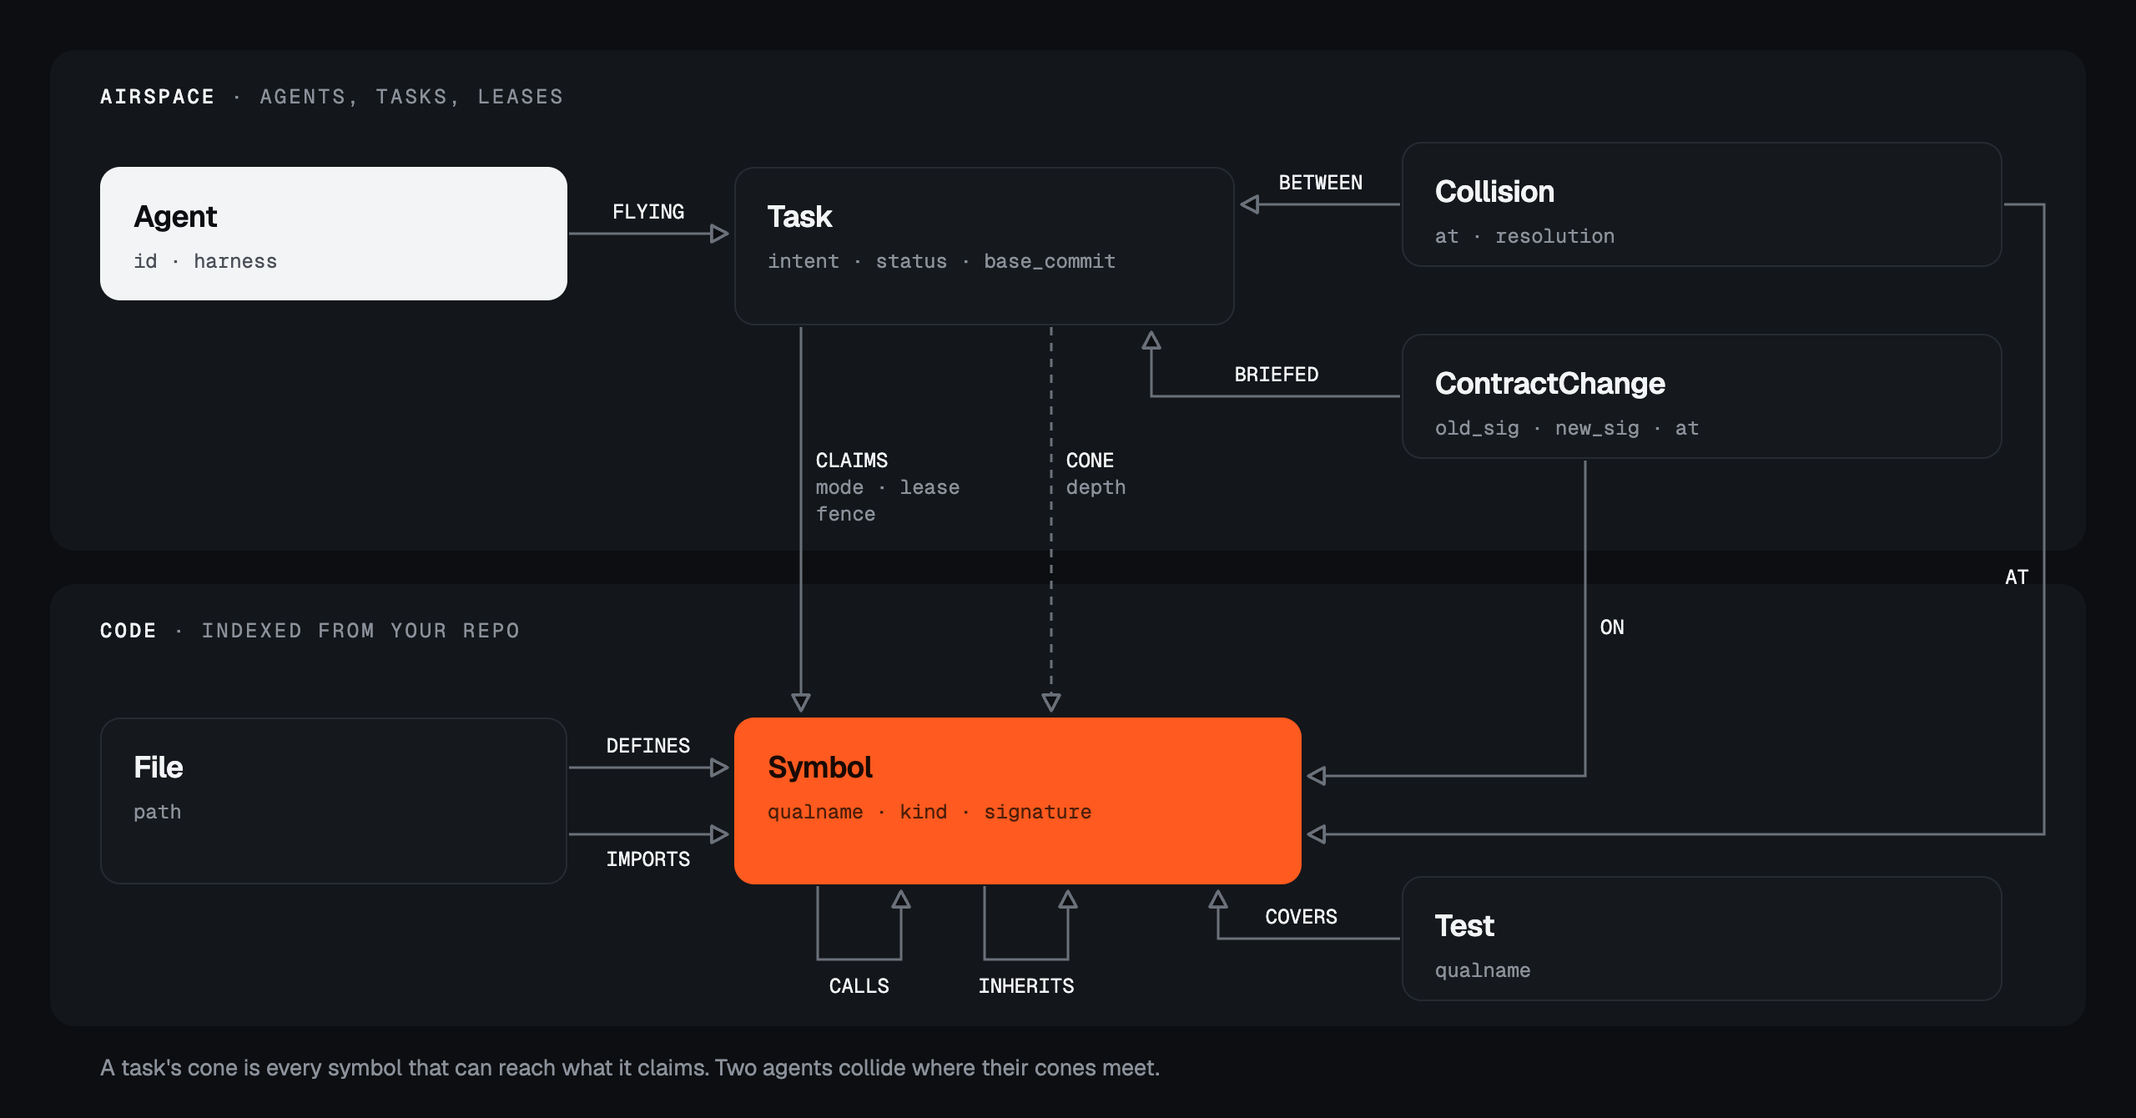
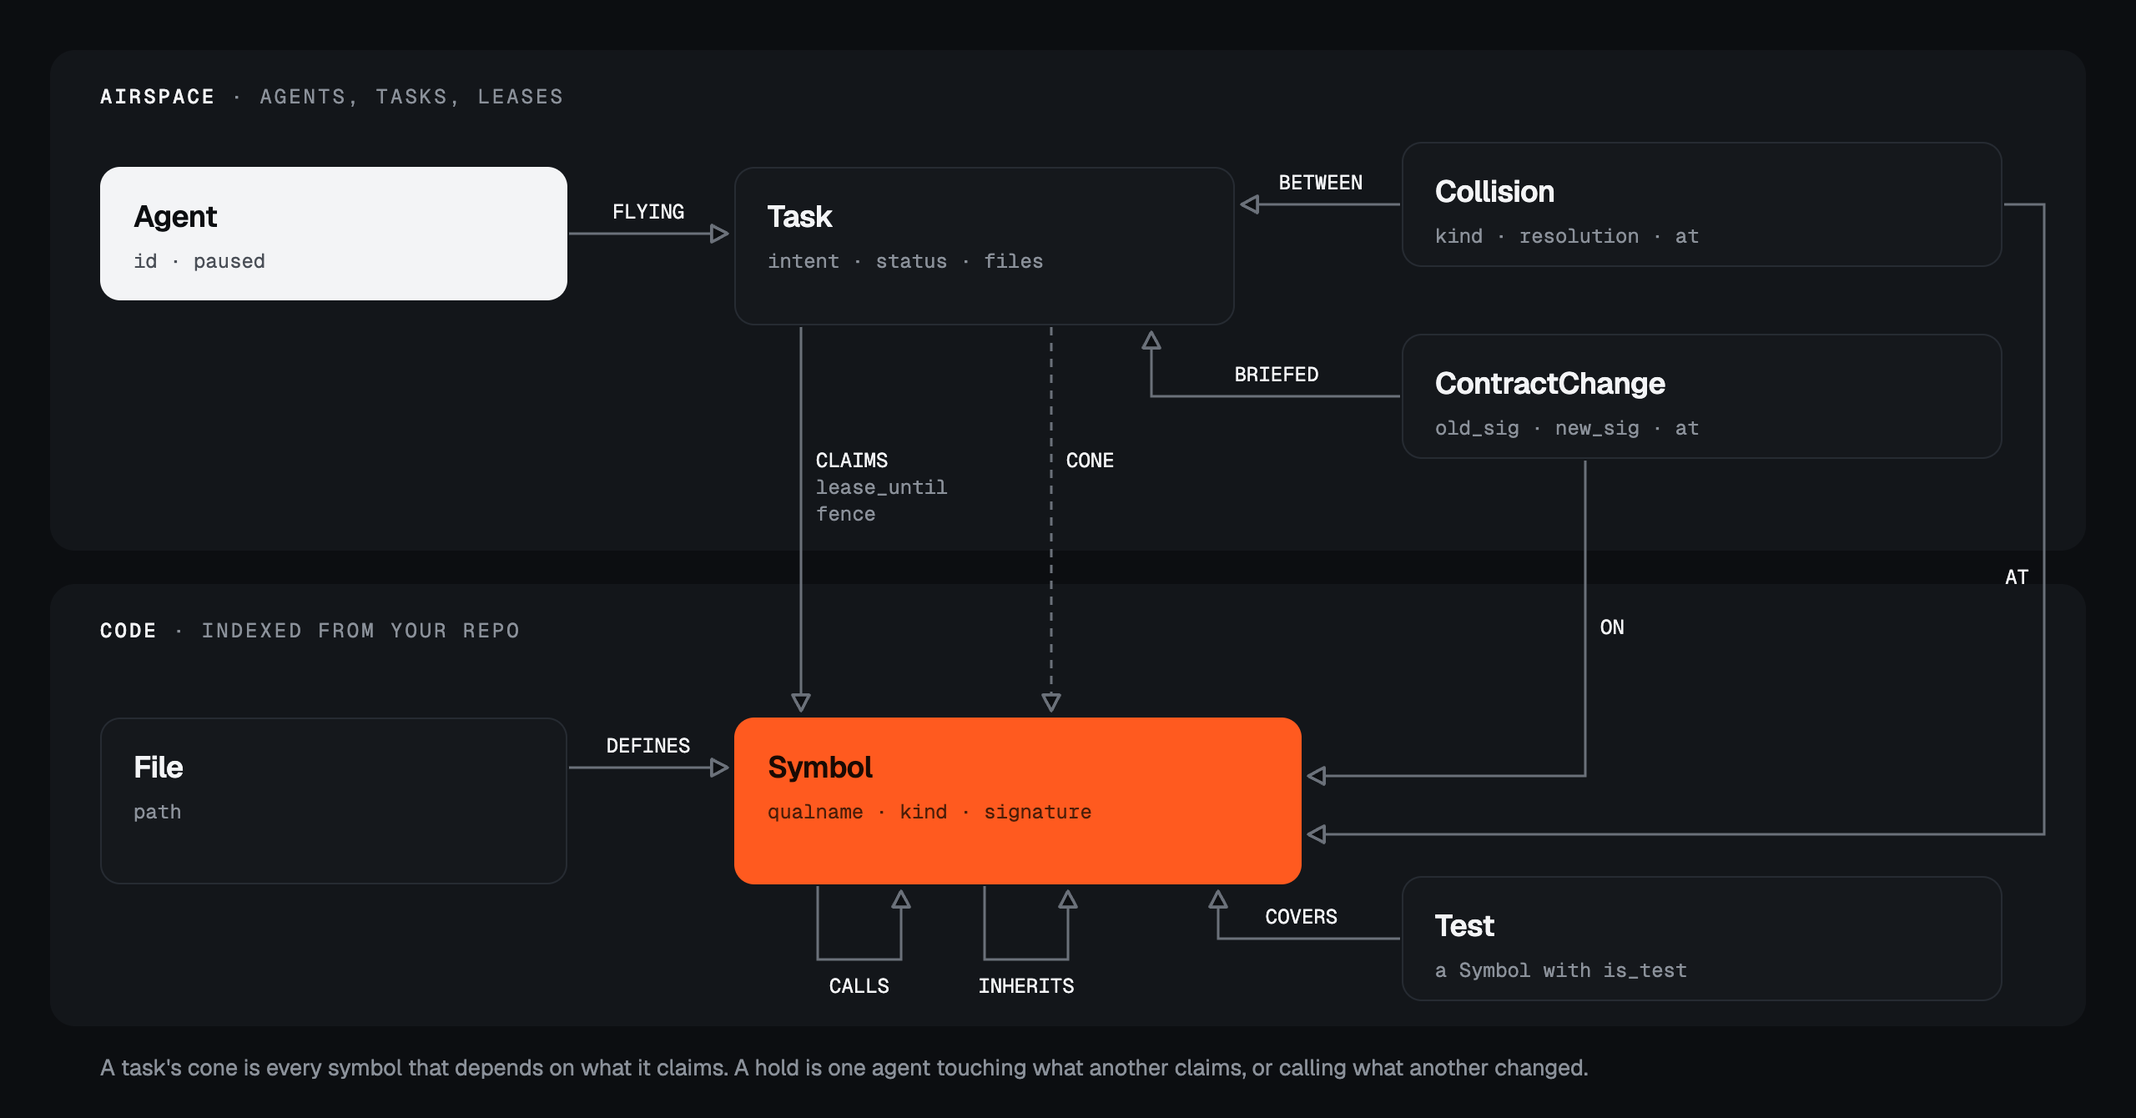
README and diagrams match the code: two verdicts, the real schema and queries, fail-open hooks, no planner

diff --git a/assets/readme/src/graph-model.html b/assets/readme/src/graph-model.html
@@ -39,14 +39,14 @@
   <div class="layer" style="top:100px;"><b>Airspace</b> · agents, tasks, leases</div>
   <div class="layer" style="top:740px;"><b>Code</b> · indexed from your repo</div>
 
-  <div class="card ink" style="left:120px; top:200px; width:560px; height:160px;"><h2>Agent</h2><p>id · harness</p></div>
-  <div class="card" style="left:880px; top:200px; width:600px; height:190px;"><h2>Task</h2><p>intent · status · base_commit</p></div>
-  <div class="card" style="left:1680px; top:170px; width:720px; height:150px;"><h2>Collision</h2><p>at · resolution</p></div>
+  <div class="card ink" style="left:120px; top:200px; width:560px; height:160px;"><h2>Agent</h2><p>id · paused</p></div>
+  <div class="card" style="left:880px; top:200px; width:600px; height:190px;"><h2>Task</h2><p>intent · status · files</p></div>
+  <div class="card" style="left:1680px; top:170px; width:720px; height:150px;"><h2>Collision</h2><p>kind · resolution · at</p></div>
   <div class="card" style="left:1680px; top:400px; width:720px; height:150px;"><h2>ContractChange</h2><p>old_sig · new_sig · at</p></div>
 
   <div class="card" style="left:120px; top:860px; width:560px; height:200px;"><h2>File</h2><p>path</p></div>
   <div class="card hot" style="left:880px; top:860px; width:680px; height:200px;"><h2>Symbol</h2><p>qualname · kind · signature</p></div>
-  <div class="card" style="left:1680px; top:1050px; width:720px; height:150px;"><h2>Test</h2><p>qualname</p></div>
+  <div class="card" style="left:1680px; top:1050px; width:720px; height:150px;"><h2>Test</h2><p>a Symbol with is_test</p></div>
 
   <svg width="2560" height="1340" viewBox="0 0 2560 1340">
     <defs>
@@ -64,7 +64,6 @@
       <path d="M2402 245 H2450 V1000 H1568" marker-end="url(#arr)"/>           <!-- AT -->
       <path d="M1678 1125 H1460 V1068" marker-end="url(#arr)"/>                <!-- COVERS -->
       <path d="M682 920 H872" marker-end="url(#arr)"/>                         <!-- DEFINES -->
-      <path d="M682 1000 H872" marker-end="url(#arr)"/>                        <!-- IMPORTS -->
       <path d="M980 1062 V1150 H1080 V1068" marker-end="url(#arr)"/>           <!-- CALLS -->
       <path d="M1180 1062 V1150 H1280 V1068" marker-end="url(#arr)"/>          <!-- INHERITS -->
     </g>
@@ -72,18 +71,17 @@
       <rect class="bg" x="712" y="236" width="130" height="34" rx="4"/><text class="lbl lbl-strong" x="777" y="262" text-anchor="middle">FLYING</text>
       <rect class="bg" x="1515" y="201" width="136" height="34" rx="4"/><text class="lbl lbl-strong" x="1583" y="227" text-anchor="middle">BETWEEN</text>
       <rect class="bg" x="1460" y="431" width="140" height="34" rx="4"/><text class="lbl lbl-strong" x="1530" y="457" text-anchor="middle">BRIEFED</text>
-      <text class="lbl lbl-strong" x="978" y="560">CLAIMS</text><text class="lbl" x="978" y="592">mode · lease</text><text class="lbl" x="978" y="624">fence</text>
-      <text class="lbl lbl-strong" x="1278" y="560">CONE</text><text class="lbl" x="1278" y="592">depth</text>
+      <text class="lbl lbl-strong" x="978" y="560">CLAIMS</text><text class="lbl" x="978" y="592">lease_until</text><text class="lbl" x="978" y="624">fence</text>
+      <text class="lbl lbl-strong" x="1278" y="560">CONE</text>
       <text class="lbl lbl-strong" x="1918" y="760">ON</text>
       <text class="lbl lbl-strong" x="2432" y="700" text-anchor="end">AT</text>
       <rect class="bg" x="1500" y="1081" width="120" height="34" rx="4"/><text class="lbl lbl-strong" x="1560" y="1107" text-anchor="middle">COVERS</text>
       <rect class="bg" x="707" y="876" width="140" height="34" rx="4"/><text class="lbl lbl-strong" x="777" y="902" text-anchor="middle">DEFINES</text>
-      <rect class="bg" x="707" y="1012" width="140" height="34" rx="4"/><text class="lbl lbl-strong" x="777" y="1038" text-anchor="middle">IMPORTS</text>
       <text class="lbl lbl-strong" x="1030" y="1190" text-anchor="middle">CALLS</text>
       <text class="lbl lbl-strong" x="1230" y="1190" text-anchor="middle">INHERITS</text>
     </g>
   </svg>
 
-  <div class="foot">A task's cone is every symbol that can reach what it claims. Two agents collide where their cones meet.</div>
+  <div class="foot">A task's cone is every symbol that depends on what it claims. A hold is one agent touching what another claims, or calling what another changed.</div>
 </body>
 </html>

diff --git a/assets/readme/src/architecture.html b/assets/readme/src/architecture.html
@@ -77,7 +77,7 @@
       <rect class="lbl-bg" x="150" y="540" width="300" height="44"/>
       <text class="lbl" x="300" y="572" text-anchor="middle">edit? ask first</text>
       <rect class="lbl-bg" x="452" y="690" width="376" height="44"/>
-      <text class="lbl" x="640" y="722" text-anchor="middle">cleared · held · briefed</text>
+      <text class="lbl" x="640" y="722" text-anchor="middle">cleared · held</text>
       <text class="lbl" x="1306" y="814">Cypher · algo.*</text>
       <text class="lbl" x="1760" y="604">re-index on save</text>
       <text class="lbl" x="1486" y="420">live · actions</text>

diff --git a/README.md b/README.md
@@ -24,12 +24,12 @@ Built for two kinds of people:
 
 ## How it works
 
-1. **File a flight plan.** When an agent starts a task, Airspace marks the symbols it means to change. It then computes the task's **impact cone**: everything that calls, imports, overrides or tests those symbols, a few hops out.
-2. **Ask before every write.** A Claude Code `PreToolUse` hook checks each `Edit` and `Write` with Airspace. The answer is a graph query and a few rules, never a model call:
-   - **cleared** when the edit stays in the agent's own airspace;
-   - **hold** when it enters another agent's cone;
-   - **briefed** when it depends on a contract someone else is changing.
-3. **Brief, don't surprise.** When one agent changes a signature, every agent whose cone reaches it gets a briefing on its next tool call. The briefing gives the new signature and the exact path that connects the two pieces of work.
+1. **Claim what you touch.** When an agent edits a symbol, its task claims it under a lease. Its **impact cone** is everything that calls, overrides or tests what it claims, two hops out. An agent can also file a flight plan up front through the MCP server.
+2. **Ask before every write.** A Claude Code `PreToolUse` hook checks each `Edit`, `Write` and `MultiEdit` with Airspace before the file changes. The answer is a graph query and a few rules, never a model call:
+   - **hold** when the edit touches a symbol another agent has claimed, or adds a call that no longer fits a contract another agent changed;
+   - **cleared** otherwise. Python's own argument-binding rules decide whether a call fits a signature.
+3. **Brief, don't surprise.** When one agent changes a signature, every agent whose code depends on it gets a briefing on its next tool call: the old and new signature and, when known, the call it breaks.
+4. **Hold at landing.** When an agent stops, Airspace checks the calls in every file it edited against every contract change by another agent. While another agent is still working on something it calls, it waits; if a call no longer fits, it is sent back once with the change.
 
 The edit tool returned this to agent-b in a real run, when it wrote `slugify(post.title, allow_unicode=True)` on its own branch after agent-a changed `slugify`:
 
@@ -63,15 +63,15 @@ Hot zones, the symbols where agents collide most across sessions, come from `air
 
 | | |
 | --- | --- |
-| **Collisions are paths** | Two agents collide when their impact cones meet. That is a traversal over `CALLS`, `IMPORTS`, `INHERITS` and `COVERS`, not a text match. |
-| **Every hold explains itself** | `algo.SPpaths` returns the shortest path between the two pieces of work, and the agent and the radar both show it. |
-| **Parallel by default** | `algo.WCC` over the conflict graph splits tasks into groups. Groups run at the same time; only tasks inside a group wait for each other. |
-| **It remembers** | Holds, briefings and contract changes stay in the graph. Next session, the planner already knows the hot zones and splits work around them. |
+| **Collisions are paths** | Whether an edit reaches another agent's work is a traversal over `CALLS`, `INHERITS` and `COVERS`, not a text match. Each `CALLS` edge carries the shapes of its call sites, so a changed signature is checked against every real caller. |
+| **Every hold explains itself** | A hold names the caller, the changed symbol and the path between them. `explain` finds the shortest path between any two symbols with `shortestPath`. |
+| **Parallel by default** | Agents only wait when their work actually meets. `algo.WCC` over the conflict graph groups the agents that do, shown by `airspace insights`. |
+| **It remembers** | Holds, briefings and contract changes stay in the graph. Hot zones, ranked by collisions and `algo.betweenness`, come from `airspace insights` and the `hot_zones` MCP tool. |
 
 <p align="center">
   <picture>
     <source media="(prefers-color-scheme: dark)" srcset="assets/readme/architecture-dark.png">
-    <img alt="Architecture: your coding agents ask airspace/hooks before every edit. airspace/admission checks the FalkorDB graph with Cypher and graph algorithms and returns cleared, held or briefed. airspace/indexer re-indexes the code graph on save. The radar shows cones, collisions and paths live." src="assets/readme/architecture-light.png" width="100%">
+    <img alt="Architecture: your coding agents ask airspace/hooks before every edit. airspace/admission checks the FalkorDB graph with Cypher and graph algorithms and returns cleared or held, with briefings. airspace/indexer re-indexes the code graph on save. The radar shows cones, collisions and paths live." src="assets/readme/architecture-light.png" width="100%">
   </picture>
 </p>
 
@@ -82,7 +82,7 @@ Each repo gets its own graph in FalkorDB. It has two layers: the code, and the a
 <p align="center">
   <picture>
     <source media="(prefers-color-scheme: dark)" srcset="assets/readme/graph-model-dark.png">
-    <img alt="Graph model. Airspace layer: Agent FLYING Task; Collision BETWEEN Task; ContractChange BRIEFED Task. Task CLAIMS (mode, lease, fence) and CONE (depth) point down to Symbol in the code layer. Code layer: File DEFINES and IMPORTS Symbol; Symbol CALLS and INHERITS Symbol; Test COVERS Symbol; ContractChange ON Symbol; Collision AT Symbol." src="assets/readme/graph-model-light.png" width="100%">
+    <img alt="Graph model. Airspace layer: Agent FLYING Task; Collision BETWEEN Task; ContractChange BRIEFED Task. Task CLAIMS (lease_until, fence) and CONE point down to Symbol in the code layer. Code layer: File DEFINES Symbol; Symbol CALLS and INHERITS Symbol; a test Symbol COVERS Symbol; ContractChange ON Symbol; Collision AT Symbol." src="assets/readme/graph-model-light.png" width="100%">
   </picture>
 </p>
 
@@ -90,24 +90,25 @@ Each repo gets its own graph in FalkorDB. It has two layers: the code, and the a
 <summary>The same model as text</summary>
 
 ```text
-(:File {path})-[:DEFINES]->(:Symbol {qualname, kind, signature, sig_hash})
-(:Symbol)-[:CALLS]->(:Symbol)
-(:File)-[:IMPORTS]->(:Symbol)
+(:File {path})-[:DEFINES]->(:Symbol {qualname, kind, signature, sig_hash, is_test})
+(:Symbol)-[:CALLS {shapes}]->(:Symbol)
+(:Symbol)-[:COVERS {shapes}]->(:Symbol)        // from a test
 (:Symbol)-[:INHERITS]->(:Symbol)
-(:Test)-[:COVERS]->(:Symbol)
 
-(:Agent {id, harness})-[:FLYING]->(:Task {intent, status, base_commit})
-(:Task)-[:CLAIMS {mode, lease_until, fence}]->(:Symbol)
-(:Task)-[:CONE {depth}]->(:Symbol)
-(:Collision {at, resolution})-[:BETWEEN]->(:Task)
-(:Collision)-[:AT]->(:Symbol)
-(:ContractChange {old_sig, new_sig, at})-[:ON]->(:Symbol)
+(:Agent {id, paused})-[:FLYING]->(:Task {intent, status, touched, files})
+(:Task)-[:CLAIMS {lease_until, fence}]->(:Symbol)
+(:Task)-[:CONE]->(:Symbol)
+(:Task)-[:READING {at}]->(:File)
+(:Task)-[:CHANGED]->(:ContractChange {qualname, old_sig, new_sig, at})-[:ON]->(:Symbol)
 (:ContractChange)-[:BRIEFED]->(:Task)
+(:Collision {kind, resolution, at})-[:BETWEEN]->(:Task)
+(:Collision)-[:AT]->(:Symbol)
+(:Message {text, sender, at})-[:TO]->(:Agent)
 ```
 
 </details>
 
-The queries the product depends on (sketches, finalised during the event):
+Some of the queries the product runs on every edit:
 
 ```cypher
 // Impact cone: everything that depends on what a task holds a live claim on, up to 2 hops
@@ -117,11 +118,17 @@ MERGE (t)-[:CONE]->(d)
 ```
 
 ```cypher
-// Clearance: does this edit land in another active task's airspace?
-MATCH (target:Symbol {qualname: $qualname})
-MATCH (other:Task {status: 'active'})-[:CONE|CLAIMS]->(target)
-WHERE other.id <> $task
-RETURN other.id, other.intent
+// Clearance: does this edit touch a symbol another agent's active task holds under a live lease?
+MATCH (a:Agent)-[:FLYING]->(o:Task {status: 'active'})-[c:CLAIMS]->(:Symbol {qualname: $q})
+WHERE a.id <> $agent AND c.lease_until > $now
+RETURN o.id, a.id LIMIT 1
+```
+
+```cypher
+// Clearance: is this new call into a contract another agent has changed?
+MATCH (a:Agent)-[:FLYING]->(o:Task)-[:CHANGED]->(cc:ContractChange {qualname: $callee})
+WHERE a.id <> $agent AND o.status IN $standing
+RETURN cc.old_sig, cc.new_sig, a.id
 ```
 
 ```cypher
@@ -175,24 +182,23 @@ Every run is in [`server/bench/results/final`](server/bench/results/final): both
 
 | Path | What it is |
 | --- | --- |
-| [`server/src/airspace/indexer`](server/src/airspace/indexer) | Python `ast` → symbols, calls, imports, inheritance and test coverage, re-indexed per file |
+| [`server/src/airspace/indexer`](server/src/airspace/indexer) | Python `ast` to symbols, calls with their argument shapes, inheritance and test coverage, re-indexed per file |
 | [`server/src/airspace/graph`](server/src/airspace/graph) | FalkorDB connection, schema, indexes and the Cypher above |
-| [`server/src/airspace/admission`](server/src/airspace/admission) | Flight plans, cones, clearance, leases, briefings |
+| [`server/src/airspace/admission`](server/src/airspace/admission) | Claims, cones, clearance, call-shape checks, briefings, the landing check, insights |
 | [`server/src/airspace/hooks`](server/src/airspace/hooks) | Claude Code hooks: clearance before an edit, reindex after it, git reconcile after shell commands, briefings on every tool call, the holding pattern at `Stop` |
 | [`server/src/airspace/mcp_server`](server/src/airspace/mcp_server) | MCP tools: `file_flight_plan`, `check_symbols`, `briefings`, `explain`, `hot_zones` |
 | [`server/src/airspace/api`](server/src/airspace/api) | HTTP, server-sent events, Tower actions, replay and the playground |
 | [`server/src/airspace/bench`](server/src/airspace/bench) | The three-condition benchmark harness |
-| [`web`](web) | The site and Tower: live radar, flight log, collisions, pause, message and release, replay, playground (Vite, React) |
+| [`web`](web) | The site and Tower: live radar, activity, collisions, pause, message and release, replay, playground (Vite, React) |
 | [`docs/notes.md`](docs/notes.md) | Research, plan and decisions |
 
 ## Try it
 
 | Time | How | You need |
 | --- | --- | --- |
-| 0 min | Watch the demo video | Nothing |
 | 30 s | Open **Tower** and replay a recorded run of two real Claude Code sessions. Click a collision for its path. | A browser |
-| 2 min | **Playground**: pick what two agents will change in a real repo and get the verdict and the path. No agents and no API key, because clearance is a graph query, not a model call. | A browser |
-| 15 min | `airspace install-hooks` in any Python repo, then two Claude Code sessions | Docker, Claude Code |
+| 2 min | **Playground**: pick what two agents will change in a sample repo and get the verdict and the path. No agents and no API key, because clearance is a graph query, not a model call. | A browser |
+| 15 min | Index any Python repo, install the hooks, open two Claude Code sessions ([Quick start](#quick-start)) | Docker, Claude Code |
 
 ## Quick start
 
@@ -201,11 +207,11 @@ docker compose up -d falkordb                      # FalkorDB on :6379, Browser 
 cd server && uv sync
 
 uv run airspace index --root /path/to/your/repo          # build the code graph
-uv run airspace install-hooks --root /path/to/your/repo  # Claude Code PreToolUse, PostToolUse and Stop hooks
+uv run airspace install-hooks --root /path/to/your/repo  # Claude Code hooks: PreToolUse, PostToolUse, Stop, UserPromptSubmit
 uv run airspace status --root /path/to/your/repo         # agents, claims and recent collisions
 ```
 
-Open two Claude Code sessions in that repo (set `AIRSPACE_AGENT=agent-a` and `agent-b` to name them) and let them work on the same feature. Every `Edit`, `Write` and `MultiEdit` on a Python file is checked first. When a session stops, it holds while another agent is still changing a contract it calls, then lands only if its calls fit the new signatures.
+Open two Claude Code sessions in that repo (set `AIRSPACE_AGENT=agent-a` and `agent-b` to name them) and let them work on the same feature. Every `Edit`, `Write` and `MultiEdit` on a Python file is checked first. Files written by shell commands are reconciled with git after each command. When a session stops, it waits while another agent is still working on something it calls (up to four minutes), and is sent back once if its calls do not fit the new signatures.
 
 Run the tests (FalkorDB must be running):
 
@@ -217,9 +223,9 @@ The website lives in `web/` (`npm install && npm run dev`).
 
 ## Open decisions
 
-- [x] **Where the decision lives.** Clearance is Cypher plus rules, enforced by a hook that fails closed. No model is asked whether an edit is safe.
+- [x] **Where the decision lives.** Clearance is Cypher plus rules, enforced by a hook. No model is asked whether an edit is safe. If FalkorDB is unreachable the hook fails open and says so, so Airspace never stops an agent by being down.
 - [x] **First language.** Python, through the standard-library `ast`. Other languages come later through tree-sitter.
-- [x] **First harness.** Claude Code, through `PreToolUse` and `PostToolUse` hooks. Any MCP client can use the same tools.
+- [x] **First harness.** Claude Code, through `PreToolUse`, `PostToolUse`, `Stop` and `UserPromptSubmit` hooks. Any MCP client can use the same tools.
 - [x] **Storage.** Everything (code graph, flight plans, leases, history) lives in FalkorDB, one graph per repo. No side database.
 - [x] **Benchmark repo.** A small blog app with six constructed task pairs, so every pair runs in under a minute and the whole matrix can repeat.
 - [x] **Cone depth.** Two hops by default (`AIRSPACE_CONE_DEPTH`). Contract changes reach every direct caller, whatever the depth.
@@ -233,7 +239,7 @@ The website lives in `web/` (`npm install && npm run dev`).
 - [x] Briefings on contract changes, with call-shape checks and rename detection
 - [x] Holding pattern at landing, read and prompt interest, git reconcile for shell writes
 - [x] MCP server
-- [x] Tower: radar, flight log, activity and collision views
+- [x] Tower: radar, activity and collision views
 - [x] Tower actions: release, pause, message
 - [x] Tower playground and replay mode
 - [x] Hot-zone memory across sessions
@@ -254,7 +260,7 @@ The website lives in `web/` (`npm install && npm run dev`).
 
 Built for the [FalkorDB Hackathon](https://www.wemakedevs.org/hackathons/falkordb) (October 15 to 18, 2026), entering **Track 02 · Agent Memory and Coordination** and **Track 01 · Agents That Act on Connected Data**.
 
-All product code is written during the event. Before it, this repo held only notes, diagrams and empty scaffolding.
+The organisers confirmed that building may start before the event; work began on October 14.
 
 We use AI coding assistants (Claude Code) for research, scaffolding and pair programming, and say so here as rule 11 requires. We can explain every part of the graph model, the queries and the design.
 
